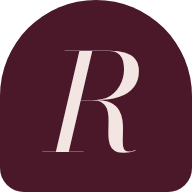
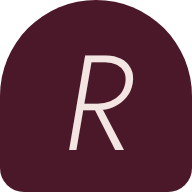
Troca a fonte de destaque de Bodoni Moda para Jost
Display mais leve e elegante, com itálico nos acentos. Imagem de
compartilhamento e ícones regenerados com a fonte nova.

Claude-Session: https://claude.ai/code/session_011mZctECf6axHQWYRbjvP7b

Changed region(s): [[0.2188, 0.25, 0.75, 0.8125]]

diff --git a/src/styles/global.css b/src/styles/global.css
@@ -1,5 +1,5 @@
 /* Layout: revista de beleza. Grade assimétrica, o arco (espelho de penteadeira, janela da sala 707) como forma recorrente,
-   Bodoni em itálico só nos acentos. Rosa queimado sobre pétala, vinho como tinta, verde-mar da Praia Brava em doses pequenas. */
+   Jost fina, itálico só nos acentos. Rosa queimado sobre pétala, vinho como tinta, verde-mar da Praia Brava em doses pequenas. */
 :root {
   --petal: #f3e5e2;
   --paper: #fbf6f4;
@@ -15,7 +15,7 @@
   --on-wine: #f6e7e4;
   --on-wine-muted: rgba(246, 231, 228, 0.72);
 
-  --display: 'Bodoni Moda Variable', 'Bodoni 72', 'Didot', 'Bodoni MT', 'Times New Roman', serif;
+  --display: 'Jost Variable', 'Futura', 'Century Gothic', 'Avenir Next', system-ui, sans-serif;
   --body: 'Hanken Grotesk Variable', 'Helvetica Neue', 'Segoe UI', system-ui, sans-serif;
 
   --step--1: clamp(0.82rem, 0.8rem + 0.1vw, 0.88rem);
@@ -97,13 +97,13 @@ ul, ol { margin: 0; padding: 0; list-style: none; }
 /* ---------- Tipografia ---------- */
 .display {
   font-family: var(--display);
-  font-weight: 420;
-  letter-spacing: -0.015em;
-  line-height: 0.98;
+  font-weight: 300;
+  letter-spacing: -0.025em;
+  line-height: 1.02;
 }
 .display em, .accent {
   font-style: italic;
-  font-weight: 400;
+  font-weight: 300;
   color: var(--rose);
 }
 .h2 { font-size: var(--step-4); }
@@ -232,7 +232,7 @@ body::before {
 }
 .brand:hover .brand__mark { background: var(--rose); transform: rotate(-6deg); }
 .brand__text { display: grid; line-height: 1.05; }
-.brand__name { font-family: var(--display); font-size: 1.28rem; letter-spacing: -0.01em; }
+.brand__name { font-family: var(--display); font-size: 1.24rem; font-weight: 400; letter-spacing: 0.01em; }
 .brand__sub { font-size: 0.68rem; letter-spacing: 0.22em; text-transform: uppercase; color: var(--muted); }
 
 .nav { display: flex; align-items: center; gap: 6px; }
@@ -342,7 +342,7 @@ body::before {
 .arch__mono {
   position: absolute; inset: 0; z-index: 2;
   display: grid; place-items: center;
-  font-family: var(--display); font-style: italic; font-weight: 400;
+  font-family: var(--display); font-style: italic; font-weight: 200;
   font-size: clamp(9rem, 22vw, 17rem); line-height: 1;
   color: rgba(251, 246, 244, 0.82);
   text-shadow: 0 20px 60px rgba(74, 24, 40, 0.25);
@@ -415,6 +415,7 @@ body::before {
 .manifesto { position: relative; }
 .manifesto__text {
   font-family: var(--display);
+  font-weight: 300;
   font-size: clamp(1.75rem, 1.2rem + 2.6vw, 3.6rem);
   line-height: 1.16;
   letter-spacing: -0.01em;
@@ -460,7 +461,7 @@ body::before {
 }
 .t-row:hover::before, .t-row:focus-visible::before { transform: scaleY(1); }
 .t-row:hover { padding-left: 24px; }
-.t-row__name { font-family: var(--display); font-size: var(--step-3); line-height: 1.02; letter-spacing: -0.015em; }
+.t-row__name { font-family: var(--display); font-size: var(--step-3); font-weight: 300; line-height: 1.05; letter-spacing: -0.02em; }
 .t-row:hover .t-row__name { font-style: italic; color: var(--rose-ink); }
 .t-row__area { font-size: var(--step--1); letter-spacing: 0.14em; text-transform: uppercase; color: var(--muted); font-weight: 600; }
 .t-row__desc { color: var(--muted); font-size: 0.98rem; max-width: 44ch; }
@@ -535,7 +536,7 @@ body::before {
 .reviews { background: var(--paper); }
 .reviews__top { display: grid; grid-template-columns: minmax(0, 1fr) auto; align-items: end; gap: 24px; margin-bottom: clamp(32px, 5vw, 56px); }
 .score { display: flex; align-items: center; gap: 18px; }
-.score__n { font-family: var(--display); font-size: clamp(4rem, 3rem + 4vw, 7rem); line-height: 0.85; color: var(--wine); }
+.score__n { font-family: var(--display); font-weight: 200; font-size: clamp(4rem, 3rem + 4vw, 7rem); line-height: 0.85; color: var(--wine); }
 .score__meta { display: grid; gap: 6px; font-size: 0.92rem; color: var(--muted); }
 .score__meta .stars svg { width: 18px; height: 18px; }
 @media (max-width: 760px) { .reviews__top { grid-template-columns: 1fr; } }
@@ -761,7 +762,7 @@ body::before {
   display: grid; gap: 18px;
   overflow: hidden;
 }
-.callout p { font-family: var(--display); font-size: var(--step-2); line-height: 1.3; max-width: 40ch; }
+.callout p { font-family: var(--display); font-size: var(--step-2); font-weight: 300; line-height: 1.35; max-width: 42ch; }
 .callout .eyebrow { color: var(--blush); }
 .callout::after {
   content: "R"; position: absolute; right: 4%; bottom: -18%;
@@ -806,4 +807,4 @@ body::before {
   .ribbon__track { animation: none; }
 }
 @media (hover: none) { .map__pin { display: none; } .map iframe { filter: none; } }
-.hero--home h1 { font-size: clamp(2.9rem, 1.4rem + 4vw, 5.4rem); }
+.hero--home h1 { font-size: clamp(2.6rem, 1.3rem + 3.6vw, 4.9rem); }
